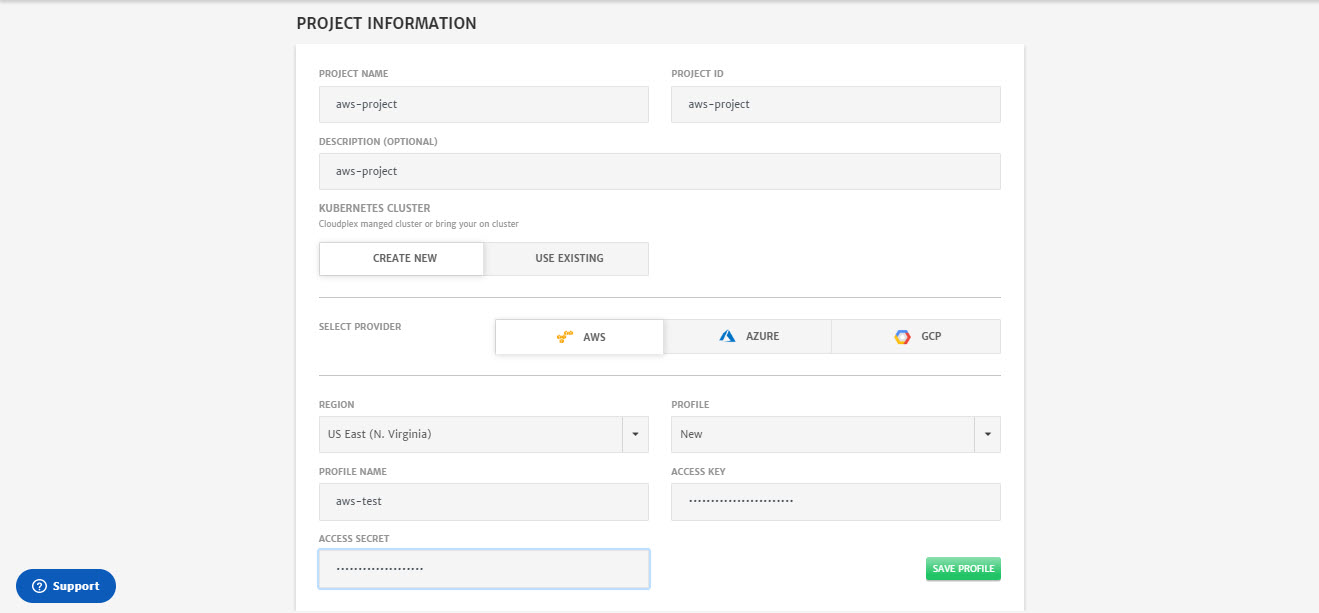
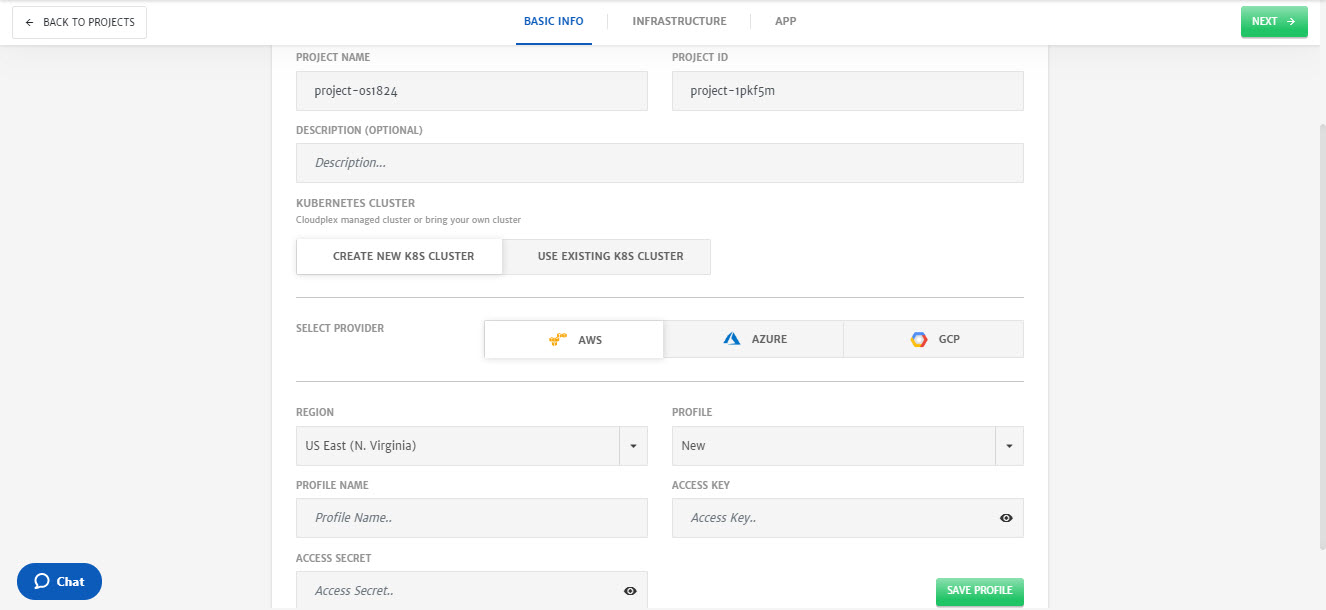
getting started

diff --git a/pages/user-guide/getting-started/getting-started.md b/pages/user-guide/getting-started/getting-started.md
@@ -16,11 +16,94 @@ Now, lets move to the process of signing up and deployment
 
    ![0b](imgs\0b.jpg)
 
-3. Once logged in, click the green **+** icon to start the project creation wizard. 
+3. Once logged in, click **Create Project** button to start the project creation wizard. 
 
-   ![1](imgs/1.jpg)
+   ![1](F:\CloudPlex\user-documentation\pages\user-guide\getting-started\imgs\1.1.jpg)
 
-4. Configure the **Basic Info** tab.
+CloudPlex offers 4 types of project creation wizard based on the requirements and expertise level of the user. 
+
+1. Quick Start (Beginner)
+   Recommended for the users who want to deploy a project quickly using predefined default configurations. 
+2. Use Template (Intermediate)
+   Recommended for the users who to deploy a project using different prebuilt templates (Network and Cluster) provided by the platform.
+3. Advanced (Expert)
+   Recommended for the expert level users who want to customize configurations of Network, Cluster and Applications as per their requirements. 
+4. Use Cloning (Expert)
+   Recommended for the users who want to use same configurations or configurations with minor changes of any existing project by cloning it. 
+
+![1.1](imgs\1.1.jpg)
+
+## Quick Start (Beginners)
+
+1. **Select** Quick Start (Beginner) from options. 
+
+2. Configure the **Basic Info** tab. (Platform has provided default values for most of the parameters)
+
+   - Select the **Cloud Provider** and specify necessary account details for the account. (For this guide we have selected AWS)
+
+   - Enter **Profile Name** and specify the AWS credentials (Access and Secret Key). You can also save this profile for future use. Credentials will be stored in vault i.e. Credentials Profile menu.
+
+     > **Note**: To know more about Credentials Profile menu, click [here](/pages/user-guide/components/credentials-profile/credentials-profile).
+
+   ![2](imgs/2.jpg)
+
+3. Click **Next** at the top right of screen.
+
+4. As part of Quick Start project creation, CloudPlex provides preconfigured **Infrastructure** (Cluster and Network). 
+
+   - Click **Download Key** to download SSH key as you might need it in future. 
+
+   ![2.1](imgs\2.1.jpg)
+
+5. Click **Next** at the top right of screen.
+
+   - Configure **APP**.
+
+      > **Note**: As part of this guide, we will only configure the minimum settings necessary to deploy the container. For detailed configurations, please check our detailed guide by clicking [here](/pages/user-guide/components/container-services/container-services).
+
+   - Drag and drop the **Container** in the package canvas from left column.
+
+   - Click on **Container** icon to configure the settings. (Platform has provided default values for most of the parameters) 
+
+     - Scroll down and specify **Image Name** and **Tag**.
+
+     - Go to **Environment Variables** menu and add Variable. It is necessary to add at least one variable which in our case is **MYSQL_ROOT_PASSWORD**.
+
+     ![2.2](imgs\2.2.jpg)
+     ![2.3](imgs\2.3.jpg)
+
+     - Go to the **Ports**, click **Add Port** button and specify the port for Traffic i.e. **8080**
+
+     ![2.4](imgs\2.4.jpg)
+     ![2.5](imgs\2.5.jpg)
+
+     - Click **Save.**
+
+6. Click **Save** (green floppy icon at the top right) to save the project.
+
+   ![2.6](imgs\2.6.jpg)
+
+7. Click the Project, you just created. 
+
+   ![17](imgs/17.jpg)
+
+8. Click **Start** to deploy the project
+
+   ![18](imgs/18.jpg)
+
+9. Once a project is deployed, go to the **Logs** tab to check the logs. 
+
+   ![19](imgs/19.jpg)
+
+10. To check in-depth flow of traffic, go to the **Monitoring** tab.
+
+    ![20](imgs/20.jpg)
+
+## Use Templates (Intermediate)
+
+1. **Select** Quick Start (Beginner) from options. 
+
+2. Configure the **Basic Info** tab. (Most of fields will be prepopulated by default)
 
    - Enter **Project Name** and **Project ID**.
 
@@ -34,11 +117,11 @@ Now, lets move to the process of signing up and deployment
 
      > **Note**: To know more about Credentials Profile menu, click [here](/pages/user-guide/components/credentials-profile/credentials-profile).
 
-   ![2](imgs/2.jpg)
+   ![2](F:/CloudPlex/user-documentation/pages/user-guide/getting-started/imgs/2.jpg)
 
-5. Click **Next** at the top right of screen.
+3. Click **Next** at the top right of screen.
 
-6. Configure **Networks**.
+4. Configure **Networks**.
 
    - Enter **Network Name**.
 
@@ -50,11 +133,11 @@ Now, lets move to the process of signing up and deployment
 
    - Specify **VPC CIDR**.
 
-   ![3](imgs/3.jpg)
+   ![3](F:/CloudPlex/user-documentation/pages/user-guide/getting-started/imgs/3.jpg)
 
    - To add Subnet, go to the **Subnets** tab, click **+** icon and specify the **Subnet Name** and **CIDR**.
 
-   ![4](imgs/4.jpg)
+   ![4](F:/CloudPlex/user-documentation/pages/user-guide/getting-started/imgs/4.jpg)
 
    - To add Security Group (SG), go to the **Security Groups** tab.
    - Specify the **SG Name** and **Description**.
@@ -65,13 +148,13 @@ Now, lets move to the process of signing up and deployment
      - Specify the **Port Range** that will be exposed to traffic.
      - Add **IP Ranges** in CIDR notation. 
 
-   ![5](imgs/5.jpg)
+   ![5](F:/CloudPlex/user-documentation/pages/user-guide/getting-started/imgs/5.jpg)
 
-   ![6](imgs/6.jpg)
+   ![6](F:/CloudPlex/user-documentation/pages/user-guide/getting-started/imgs/6.jpg)
 
-7. Click **Next** at the top right of screen.
+5. Click **Next** at the top right of screen.
 
-8. Configure **Clusters**.
+6. Configure **Clusters**.
 
    - Enter **Cluster Name** and click **Add Node Pools** button. 
 
@@ -83,7 +166,7 @@ Now, lets move to the process of signing up and deployment
 
    - Select **Subnet** from dropdown to associate with node pool.
 
-   ![7](imgs/7.jpg)
+   ![7](F:/CloudPlex/user-documentation/pages/user-guide/getting-started/imgs/7.jpg)
 
    - Select **Security Groups** from dropdown.
    - Select **Key Type** from dropdown i.e. **New** in this case and click **Generate**. A side menu will open, click **Save** and new SSH key will be generated. 
@@ -91,14 +174,14 @@ Now, lets move to the process of signing up and deployment
    - For **Root Volume** of node, select **Volume Type** from drop-down.
    - Specify the **Volume Size** and **IOPS** for volume. 
 
-   ![8](imgs/8.jpg)
+   ![8](F:/CloudPlex/user-documentation/pages/user-guide/getting-started/imgs/8.jpg)
 
    - (Optional) Use to toggle button to use **Docker Data Volume** and select the **Volume Type**, **Volume Size** and **IOPS**.
      - Check **Delete on Termination** to delete the volume on Project termination. 
 
-   ![9](imgs/9.jpg)
+   ![9](F:/CloudPlex/user-documentation/pages/user-guide/getting-started/imgs/9.jpg)
 
-9. Click **Next** at the top right of screen.
+7. Click **Next** at the top right of screen.
 
    1. Configure **Mesh**.
 
@@ -112,44 +195,46 @@ Now, lets move to the process of signing up and deployment
      - Enter **Namespace**.
      - Select the **Type** from drop-down i.e. **Deployment** in this case.
 
-     ![10](imgs/10.jpg)
+     ![10](F:/CloudPlex/user-documentation/pages/user-guide/getting-started/imgs/10.jpg)
 
      - Set the container **Replica** i.e. 1 in our case.
      - Specify **Image Name** and **Tag**.
 
-     ![11](imgs/11.jpg)
+     ![11](F:/CloudPlex/user-documentation/pages/user-guide/getting-started/imgs/11.jpg)
 
      - Go to **Environment Variables** menu and add Variable. It is necessary to add at least one which in our case is **MYSQL_ROOT_PASSWORD**
 
-     ![12](imgs/12.jpg)
+     ![12](F:/CloudPlex/user-documentation/pages/user-guide/getting-started/imgs/12.jpg)
 
-     ![13](imgs/13.jpg)
+     ![13](F:/CloudPlex/user-documentation/pages/user-guide/getting-started/imgs/13.jpg)
 
      - Go to the **Ports**, click **Add Port** button and specify the port for Traffic i.e. **8080**
 
-     ![14](imgs/14.jpg)
+     ![14](F:/CloudPlex/user-documentation/pages/user-guide/getting-started/imgs/14.jpg)
 
-     ![15](imgs/15.jpg)
+     ![15](F:/CloudPlex/user-documentation/pages/user-guide/getting-started/imgs/15.jpg)
 
      - Click **Save.**
 
-10. Click **Save** (green floppy icon at the top right) to save the project.
+8. Click **Save** (green floppy icon at the top right) to save the project.
 
-![16](imgs/16.jpg)
+![16](F:/CloudPlex/user-documentation/pages/user-guide/getting-started/imgs/16.jpg)
 
 11. Click the Project, you just created. 
 
-    ![17](imgs/17.jpg)
+    ![17](F:/CloudPlex/user-documentation/pages/user-guide/getting-started/imgs/17.jpg)
 
 12. Click **Start** to deploy the project
 
-    ![18](imgs\18.jpg)
+    ![18](F:/CloudPlex/user-documentation/pages/user-guide/getting-started/imgs/18.jpg)
 
 13. Once a project is deployed, go to the **Logs** tab to check the logs. 
 
-    ![19](imgs\19.jpg)
+    ![19](F:/CloudPlex/user-documentation/pages/user-guide/getting-started/imgs/19.jpg)
 
 14. To check in-depth flow of traffic, go to the **Monitoring** tab.
 
-    ![20](imgs\20.jpg)
+    ![20](F:/CloudPlex/user-documentation/pages/user-guide/getting-started/imgs/20.jpg)
+
+
 
